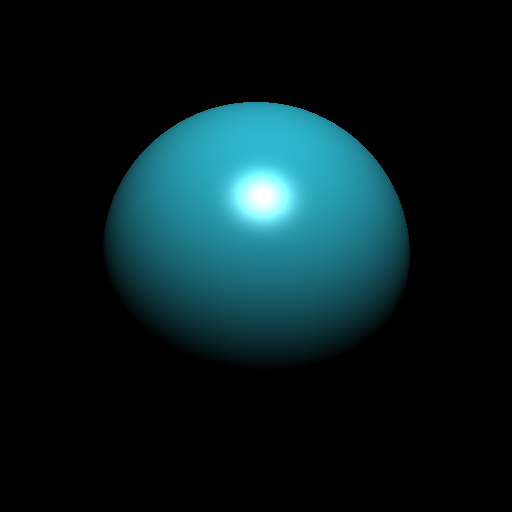
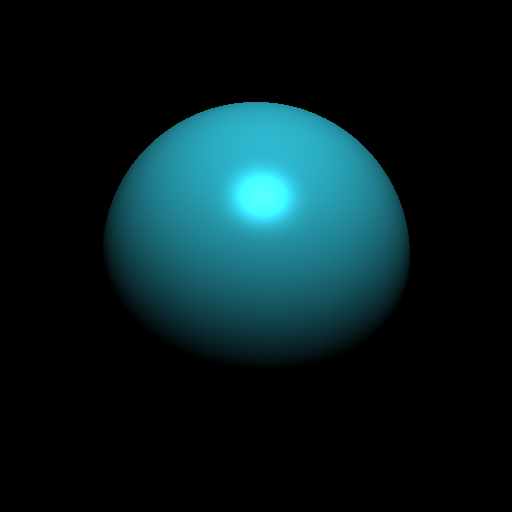
fine tuning

Changed region(s): [[0.4375, 0.3125, 0.5938, 0.4688]]

diff --git a/rust/src/lights.rs b/rust/src/lights.rs
@@ -4,7 +4,7 @@ use crate::cosine_distribution::CosineDistribution;
 use crate::tuple::{vector, Point, Vector};
 use rand::distributions::Distribution;
 use rand::thread_rng;
-use rand_distr::UnitSphere;
+use rand_distr::{UnitDisc, UnitSphere};
 use std::any::Any;
 use std::f64::consts::PI;
 
@@ -23,6 +23,15 @@ pub trait Light: Sync + 'static {
 pub enum IncomingLight {
     Ray(LightRay),
     Omni(Color),
+}
+
+impl IncomingLight {
+    pub fn intensity(&self) -> Color {
+        match self {
+            IncomingLight::Ray(lr) => lr.color,
+            IncomingLight::Omni(c) => *c,
+        }
+    }
 }
 
 #[derive(Debug, Copy, Clone)]
@@ -280,6 +289,99 @@ impl Light for SphereLight {
             origin: self.position + p * self.radius,
             direction: d,
             color: self.intensity,
+        }
+    }
+}
+
+#[derive(Debug)]
+pub struct DiscLight {
+    position: Point,
+    normal: Vector,
+    radius: f64,
+    width: Vector,
+    height: Vector,
+    intensity: Color,
+}
+
+impl DiscLight {
+    pub fn new(position: Point, normal: Vector, radius: f64, intensity: Color) -> Self {
+        let mut helper = vector(1, 0, 0);
+        if helper.dot(&normal).approx_eq(&1.0) {
+            helper = vector(0, 1, 0);
+        }
+        let width = normal.cross(&helper);
+        let height = width.cross(&normal);
+        DiscLight {
+            position,
+            normal,
+            radius,
+            width: width * radius,
+            height: height * radius,
+            intensity,
+        }
+    }
+
+    pub fn position(&self) -> Point {
+        self.position
+    }
+
+    pub fn intensity(&self) -> Color {
+        self.intensity
+    }
+}
+
+impl Light for DiscLight {
+    fn as_any(&self) -> &dyn Any {
+        self
+    }
+
+    fn is_similar(&self, other: &dyn Light) -> bool {
+        other
+            .as_any()
+            .downcast_ref::<Self>()
+            .map(|other| {
+                self.position().approx_eq(&other.position())
+                    && self.intensity().approx_eq(&other.intensity())
+                    && self.normal.approx_eq(&other.normal)
+                    && self.radius.approx_eq(&other.radius)
+            })
+            .unwrap_or(false)
+    }
+
+    fn incoming_at(&self, point: Point) -> IncomingLight {
+        let rng = &mut thread_rng();
+        let [u, v]: [f64; 2] = UnitDisc.sample(rng);
+        let origin = self.position + self.width * u + self.height * v;
+
+        let direction = (origin - point).normalized();
+
+        let distance2 = (origin - point).square_len();
+
+        IncomingLight::Ray(LightRay {
+            origin,
+            direction,
+            color: self.intensity * (-direction).dot(&self.normal).max(0.0)
+                / (4.0 * PI * distance2),
+        })
+    }
+
+    /// Assume that the spherical light is a point light with a diffusing sphere around it.
+    /// Thus, it has the same power as a point light. I think this implies that larger radii
+    /// lead to apparently dimmer light sources.
+    fn power(&self) -> f64 {
+        PointLight::compute_power(self.intensity) * 1.0
+    }
+
+    fn emit_photon(&self) -> LightRay {
+        let rng = &mut thread_rng();
+        let [u, v]: [f64; 2] = UnitDisc.sample(rng);
+        let origin = self.position + self.width * u + self.height * v;
+
+        let d = CosineDistribution::new(self.normal).sample(rng);
+        LightRay {
+            origin,
+            direction: d,
+            color: self.intensity * 0.25 * 2.0 / PI, // I do not know where the factor 2/pi comes from, but empirically it gives the same brightness as incoming_at...
         }
     }
 }

diff --git a/rust/examples/lights.rs b/rust/examples/lights.rs
@@ -1,0 +1,104 @@
+use rand::{distributions::Distribution, thread_rng};
+use rand_distr::UnitSphere;
+use raytracing::color::color;
+use raytracing::lights::{DiscLight, Light, PointLight, RealisticPointLight};
+use raytracing::tuple::{point, vector, Vector};
+use std::collections::BTreeMap;
+use std::f64::consts::PI;
+use std::time::{Duration, Instant};
+
+struct LightData {
+    source: Box<dyn Light>,
+
+    n_samples: f64,
+    cumulative_intensity_r2: f64,
+    cumulative_intensity_r4: f64,
+}
+
+impl LightData {
+    fn new(source: impl Light) -> Self {
+        LightData {
+            source: Box::new(source),
+            n_samples: 0.0,
+            cumulative_intensity_r2: 0.0,
+            cumulative_intensity_r4: 0.0,
+        }
+    }
+}
+
+fn sphere_surface_area(radius: f64) -> f64 {
+    4.0 * PI * radius * radius
+}
+
+fn main() {
+    let mut lights = BTreeMap::new();
+    lights.insert(
+        "Point light",
+        LightData::new(PointLight::new(point(0, 0, 0), color(1, 1, 1))),
+    );
+    lights.insert(
+        "Realistic point light",
+        LightData::new(RealisticPointLight::new(point(0, 0, 0), color(1, 1, 1))),
+    );
+    lights.insert(
+        "Lambertian point light",
+        LightData::new(DiscLight::new(
+            point(0, 0, 0),
+            vector(0, 1, 0),
+            0.0,
+            color(1, 1, 1),
+        )),
+    );
+    lights.insert(
+        "Lambertian disc light",
+        LightData::new(DiscLight::new(
+            point(0, 0, 0),
+            vector(0, 1, 0),
+            1.0,
+            color(1, 1, 1),
+        )),
+    );
+
+    let rng = &mut thread_rng();
+
+    let origin = point(0, 0, 0);
+
+    loop {
+        let start = Instant::now();
+        while Instant::now() - start < Duration::from_secs(1) {
+            let sample: [f64; 3] = UnitSphere.sample(rng);
+
+            let sample_dir = Vector::from(sample);
+
+            for l in lights.values_mut() {
+                l.cumulative_intensity_r2 += l
+                    .source
+                    .incoming_at(origin + sample_dir * 2.0)
+                    .intensity()
+                    .sum()
+                    / 3.0
+                    * sphere_surface_area(2.0);
+                l.cumulative_intensity_r4 += l
+                    .source
+                    .incoming_at(origin + sample_dir * 4)
+                    .intensity()
+                    .sum()
+                    / 3.0
+                    * sphere_surface_area(4.0);
+                l.n_samples += 1.0;
+            }
+        }
+
+        println!("{:>25} {:>6} {:>6}", "Type", "r=2", "r=4");
+        println!("---------------------------------------------------------------");
+        for (name, l) in &lights {
+            println!(
+                "{:>25} {:6.2} {:6.2}",
+                name,
+                l.cumulative_intensity_r2 / l.n_samples,
+                l.cumulative_intensity_r4 / l.n_samples
+            );
+        }
+        println!();
+    }
+}

diff --git a/rust/examples/photon-map.rs b/rust/examples/photon-map.rs
@@ -1,6 +1,6 @@
 use raytracing::camera::Camera;
 use raytracing::color::color;
-use raytracing::lights::RealisticPointLight;
+use raytracing::lights::DiscLight;
 use raytracing::materials::Phong;
 use raytracing::matrix::{rotation_x, rotation_y, rotation_z, scaling, translation};
 use raytracing::shapes::{cube, plane, sphere};
@@ -14,9 +14,11 @@ fn main() {
 
     let mut world = World::empty();
 
-    world.add_light(RealisticPointLight::new(
+    world.add_light(DiscLight::new(
         point(0, 8, 4),
-        color(1, 1, 1) * 200,
+        vector(0, -1, 0),
+        0.5,
+        color(1, 1, 1) * 1000,
     ));
 
     let white_material = Phong::new(color(1, 1, 1), 0.0, 0.5, 0.0, 100.0, 0.0, 0.0, 1.0);
@@ -73,7 +75,7 @@ fn main() {
 
     let mut camera = Camera::new(600, 600, PI / 2.0).with_view_transform(from, to, vector(0, 1, 0));
     camera.set_allowed_standard_error(1e-2);
-    camera.set_min_samples(10);
+    camera.set_min_samples(100);
 
     world.enable_direct_illumination(true);
     world.enable_direct_photon_map(false);
@@ -92,7 +94,7 @@ fn main() {
     world.enable_direct_photon_map(true);
     world.enable_diffuse_photon_map(false);
     world.enable_caustic_photon_map(true);
-    world.compute_photon_map(75_000_000, 100);
+    world.compute_photon_map(75_000_000, 100, 0.1);
     let image = camera.render_live(&world, "Photon Map Example: direct and caustic photons");
     let mut f = File::create("pictures/photon-map-02-direct_and_caustic_photons.png").unwrap();
     image.write_png(&mut f).unwrap();
@@ -105,7 +107,7 @@ fn main() {
     world.enable_direct_photon_map(false);
     world.enable_diffuse_photon_map(true);
     world.enable_caustic_photon_map(true);
-    world.compute_photon_map(75_000_000, 100);
+    world.compute_photon_map(75_000_000, 100, 0.1);
     let image = camera.render_live(
         &world,
         "Photon Map Example: direct light and global illumination",

diff --git a/rust/src/photon_map.rs b/rust/src/photon_map.rs
@@ -9,6 +9,7 @@ use crate::tuple::{point, vector, Point, Vector};
 use rand::distributions::Distribution;
 use rand::thread_rng;
 use std::collections::BinaryHeap;
+use std::f64::INFINITY;
 
 #[derive(Debug, Clone)]
 pub struct StoredPhoton {
@@ -222,6 +223,7 @@ enum KdFlag {
 #[derive(Debug)]
 pub struct PhotonMap {
     photons: Vec<StoredPhoton>,
+    max_search_radius: f64,
 }
 
 impl PhotonMap {
@@ -233,7 +235,14 @@ impl PhotonMap {
         PhotonMap::balance(&mut photons, &mut indices, &mut kd_idx_tree, 0, extent);
 
         permute_inplace(&mut photons, kd_idx_tree);
-        PhotonMap { photons }
+        PhotonMap {
+            photons,
+            max_search_radius: INFINITY,
+        }
+    }
+
+    pub fn set_max_search_radius(&mut self, r: f64) {
+        self.max_search_radius = r;
     }
 
     pub fn get_photon(&self, index: usize) -> &StoredPhoton {
@@ -326,12 +335,16 @@ impl PhotonMap {
             let d = self.distance_to_splitting_plane(p, node);
             if d < 0.0 {
                 self.locate_photons(left_child(node), n_neighbors, p, heap);
-                if heap.len() < n_neighbors || d * d < heap.peek().unwrap().squared_distance {
+                if d < self.max_search_radius
+                    && (heap.len() < n_neighbors || d * d < heap.peek().unwrap().squared_distance)
+                {
                     self.locate_photons(right_child(node), n_neighbors, p, heap);
                 }
             } else {
                 self.locate_photons(right_child(node), n_neighbors, p, heap);
-                if heap.len() < n_neighbors || d * d < heap.peek().unwrap().squared_distance {
+                if d < self.max_search_radius
+                    && (heap.len() < n_neighbors || d * d < heap.peek().unwrap().squared_distance)
+                {
                     self.locate_photons(left_child(node), n_neighbors, p, heap);
                 }
             }

diff --git a/rust/src/world.rs b/rust/src/world.rs
@@ -155,6 +155,8 @@ impl World {
                 });
         }
 
+        surface = surface.clip(0.0, 1.0);
+
         let emissive = surface_color * material.emissive();
 
         let reflected = self.reflected_color(&comps, remaining_bounces);
@@ -240,7 +242,12 @@ impl World {
         }
     }
 
-    pub fn compute_photon_map(&mut self, n_photons: usize, n_nearest: usize) {
+    pub fn compute_photon_map(
+        &mut self,
+        n_photons: usize,
+        n_nearest: usize,
+        max_search_radius: f64,
+    ) {
         log::info!("Tracing {} photons", n_photons);
         let photons = (0..n_photons)
             .into_par_iter()
@@ -251,7 +258,9 @@ impl World {
             .collect();
 
         log::info!("Balancing photon map");
-        self.photon_map = Some((PhotonMap::from_vec(photons), n_nearest));
+        let mut map = PhotonMap::from_vec(photons);
+        map.set_max_search_radius(max_search_radius);
+        self.photon_map = Some((map, n_nearest));
 
         log::info!("Photon map complete");
     }
